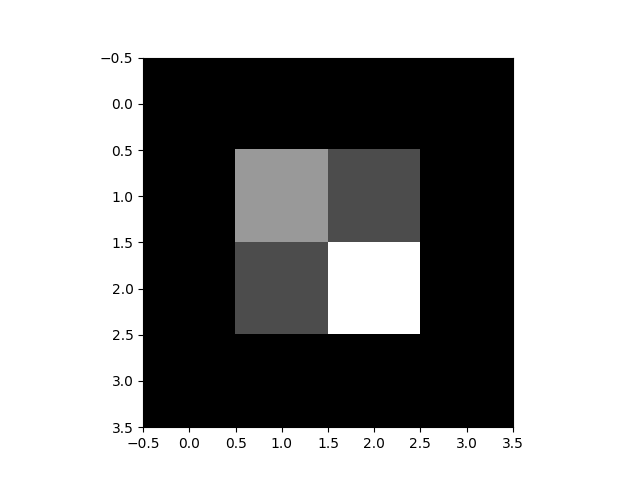
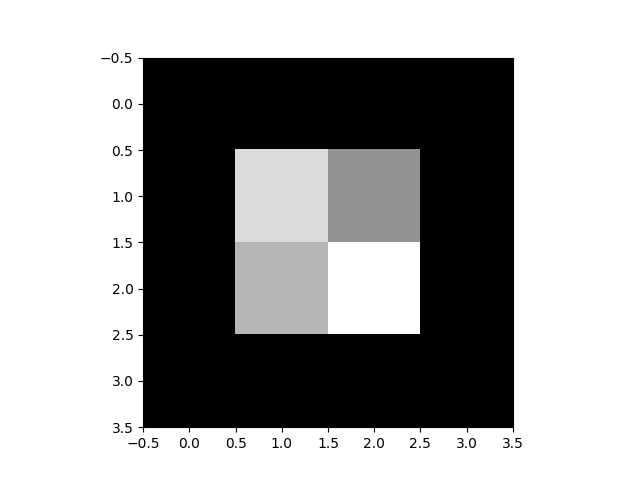
Add support for floating point to sequential module

Changed region(s): [[0.3438, 0.3125, 0.6562, 0.7188]]

diff --git a/sim_seq.py b/sim_seq.py
@@ -1,5 +1,6 @@
 import pyrtl as rtl
 from matplotlib import pyplot as plt
+from utils import *
 
 from conv_sequential import conv
 
@@ -13,7 +14,6 @@ A = [
 
 a_len = len(A) * len(A[0])
 
-
 # Kernel
 K = [
     [1, 1, 1],
@@ -24,6 +24,7 @@ K = [
 flat_a = flatten(A)
 flat_k = flatten(K)
 bitwidth = 8
+fractional_bits = 2
 
 mem_i = rtl.MemBlock(bitwidth=bitwidth, addrwidth=32,
                      name="input_img")
@@ -34,7 +35,7 @@ reset = rtl.Input(bitwidth=1, name="reset")
 done = rtl.Output(bitwidth=1, name="done")
 
 output_memory, complete = conv(mem_i, mem_k, reset, len(
-    A), len(A[0]), len(K), len(K[0]), bitwidth)
+    A), len(A[0]), len(K), len(K[0]), bitwidth, fractional_bits)
 
 done <<= complete
 
@@ -49,7 +50,7 @@ print("KERNEL")
 print(K)
 print()
 
-# At first we load the kernle and images to their respective memories.
+# At first we load the kernel and images to their respective memories.
 writing_image = rtl.Input(bitwidth=1, name="writing_image")
 addr = rtl.Input(bitwidth=32, name="pixel_addr")
 pixel = rtl.Input(bitwidth=bitwidth, name="pixel")
@@ -60,6 +61,10 @@ addr = rtl.Input(bitwidth=32, name="kernel_addr")
 pixel = rtl.Input(bitwidth=bitwidth, name="kernel_value")
 mem_k[addr] <<= rtl.MemBlock.EnabledWrite(pixel, writing_kernel)
 
+sim_inputs = {
+    'A': int(''.join([float_to_binary(i, bitwidth, fractional_bits) for i in flat_a]), 2),
+    'K': int(''.join([float_to_binary(i, bitwidth, fractional_bits) for i in flat_k]), 2)
+}
 
 sim_trace = rtl.SimulationTrace()
 sim = rtl.Simulation(tracer=sim_trace)
@@ -67,7 +72,7 @@ sim = rtl.Simulation(tracer=sim_trace)
 for i in range(len(flat_a)):
     sim.step({"reset": 1,
               "pixel_addr": i,
-              "pixel": flat_a[i],
+              "pixel": int(float_to_binary(flat_a[i], bitwidth, fractional_bits),2),
               "kernel_addr": 0,
               "kernel_value": 0,
               "writing_image": True,
@@ -77,7 +82,7 @@ for i in range(len(flat_a)):
 for i in range(len(flat_k)):
     sim.step({"reset": 1,
               "kernel_addr": i,
-              "kernel_value": flat_k[i],
+              "kernel_value": int(float_to_binary(flat_k[i], bitwidth, fractional_bits),2),
               "pixel_addr": 0,
               "pixel": 0,
               "writing_image": False,
@@ -101,7 +106,7 @@ output = sim.inspect_mem(output_memory)
 convolution = [[0 for _ in range(len(A[0]))] for _ in range(len(A))]
 
 for (pixel, value) in output.items():
-    convolution[pixel // len(convolution[0])][pixel % len(convolution[0])] = value
+    convolution[pixel // len(convolution[0])][pixel % len(convolution[0])] = binary_to_float(f'{value:b}', bitwidth, fractional_bits)
 
 print("CONVOLUTION")
 print(convolution)

diff --git a/conv_sequential.py b/conv_sequential.py
@@ -8,9 +8,19 @@ def conv(A,
          cols_a: int,
          rows_k: int,
          cols_k: int,
-         bitwidth: int):
+         bitwidth: int,
+         fractional_bits=0):
+    
+    # Perform shift to adjust for fixed-point multiplication (if necessary)
+    def fp_adjust(x):
+        if fractional_bits:
+            return (rtl.shift_right_arithmetic(x, fractional_bits))
+        else:
+            return x
+
     output_img = rtl.MemBlock(bitwidth=2*bitwidth + 1,
                               addrwidth=32, name='output_img')
+
     a_row = rtl.Register(bitwidth=16, name='a_row', reset_value=rows_k//2)
     a_col = rtl.Register(bitwidth=16, name='a_col', reset_value=cols_k//2)
 
@@ -69,7 +79,7 @@ def conv(A,
                 next_a_col |= a_col
                 next_k_row |= rtl.select(k_col == cols_k - 1, k_row + 1, k_row)
                 next_k_col |= rtl.select(k_col == cols_k - 1, 0, k_col + 1)
-                aggregator.next |= aggregator + focused_pixel * focused_kernel
+                aggregator.next |= aggregator + fp_adjust(focused_pixel * focused_kernel)
                 complete.next |= complete
 
     return output_img, complete
